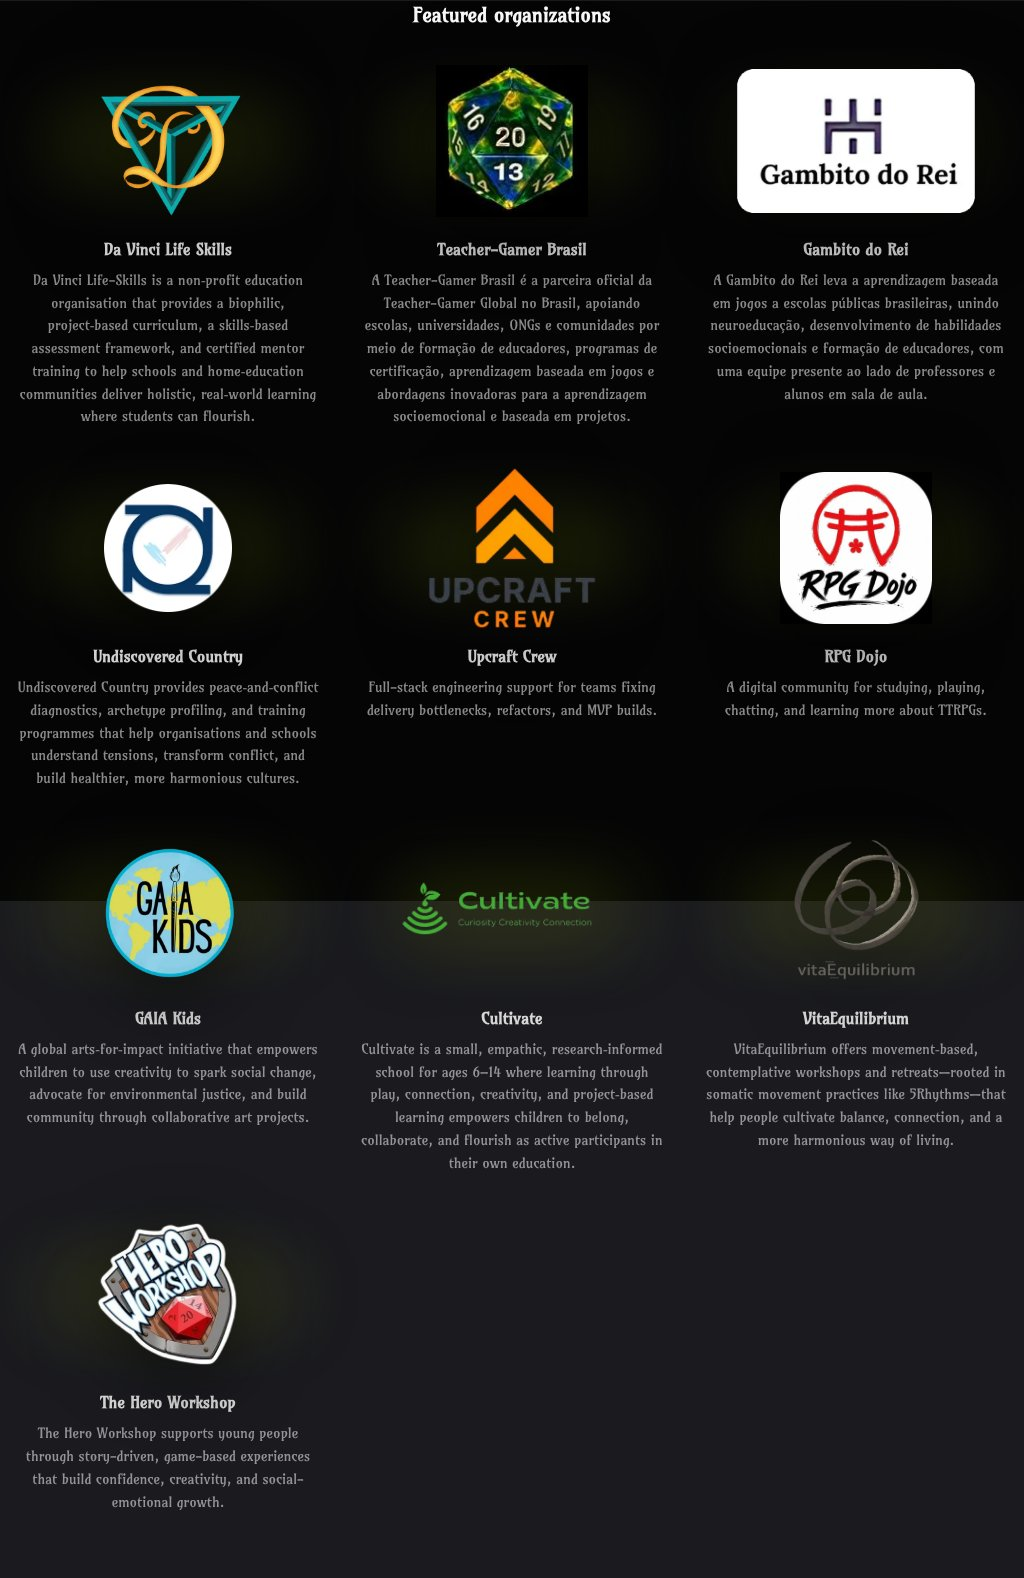
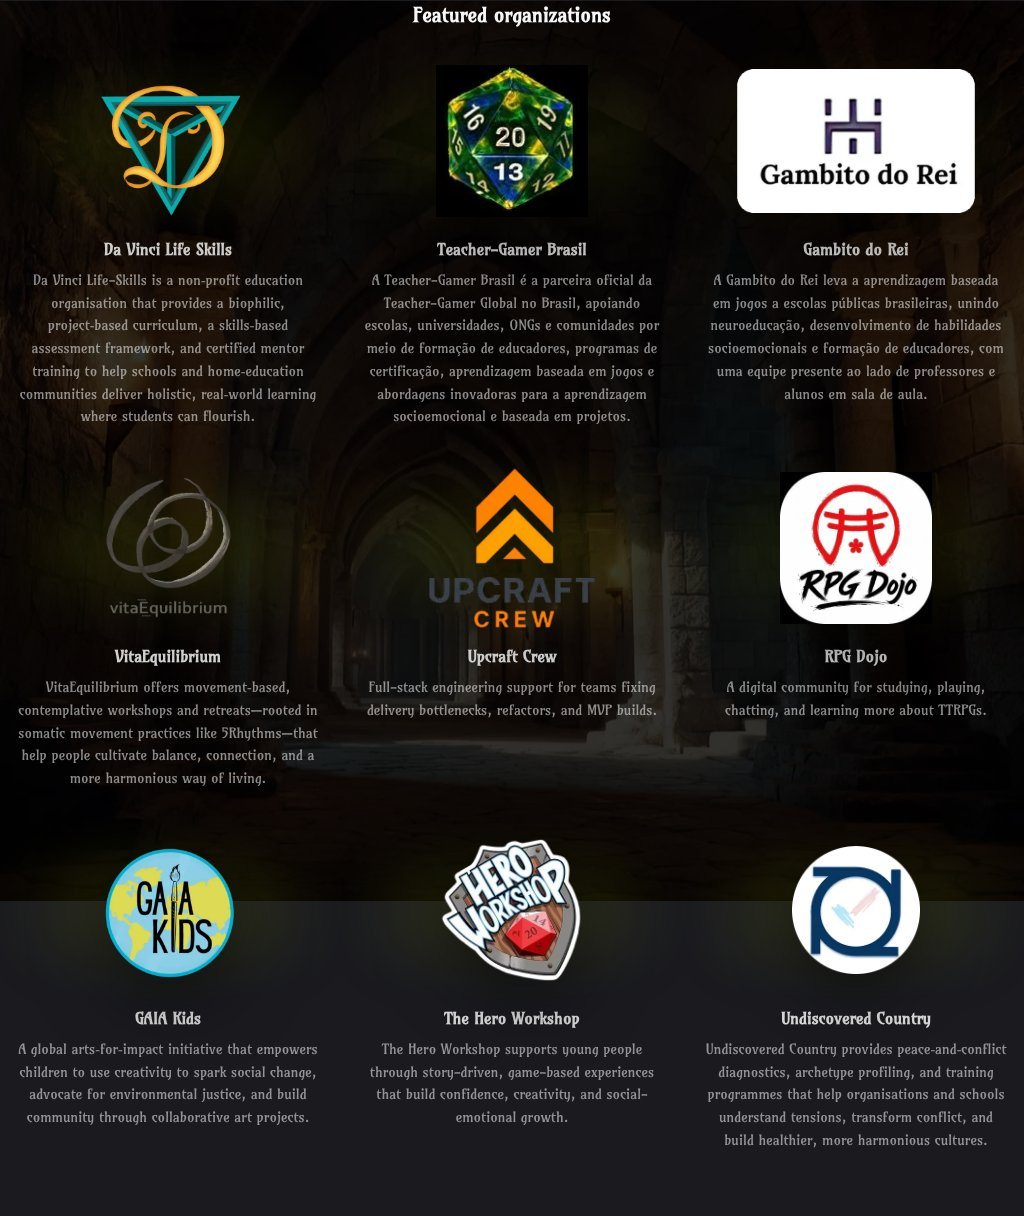
Remove Cultivate and swap Undiscovered Country with VitaEquilibrium
The grid is now a clean 3x3: VitaEquilibrium moves up beside Upcraft
Crew, Undiscovered Country moves to the last slot, and The Hero Workshop
fills the gap left by Cultivate. The after screenshot is regenerated.

Claude-Session: https://claude.ai/code/session_01UaiBi87Hez7aywdimHGd7x

diff --git a/src/data/partners.ts b/src/data/partners.ts
@@ -36,12 +36,12 @@ export const partnerOrganizations: PartnerEntry[] = [
     logoClassName: "scale-90",
   },
   {
-    name: "Undiscovered Country",
+    name: "VitaEquilibrium",
     description:
-      "Undiscovered Country provides peace‑and‑conflict diagnostics, archetype profiling, and training programmes that help organisations and schools understand tensions, transform conflict, and build healthier, more harmonious cultures.",
-    logoSrc: "/partners/undiscovered-country-logo-2.png",
-    logoClassName: "scale-80",
-    website: "https://www.undiscoveredcountry.org.uk/",
+      "VitaEquilibrium offers movement\u{2011}based, contemplative workshops and retreats\u{2014}rooted in somatic movement practices like 5Rhythms\u{2014}that help people cultivate balance, connection, and a more harmonious way of living.",
+    logoSrc: "/partners/vitaequilibrium-logo.png",
+    logoClassName: "scale-95",
+    website: "https://www.vitaequilibrium.com/",
   },
   {
     name: "Upcraft Crew",
@@ -66,27 +66,19 @@ export const partnerOrganizations: PartnerEntry[] = [
     website: "https://gaiakids.net",
   },
   {
-    name: "Cultivate",
-    description:
-      "Cultivate is a small, empathic, research\u{2011}informed school for ages 6\u{2013}14 where learning through play, connection, creativity, and project\u{2011}based learning empowers children to belong, collaborate, and flourish as active participants in their own education.",
-    logoSrc: "/partners/cultivate-logo-bright.png",
-    logoClassName: "scale-90 drop-shadow-[0_0_20px_rgba(120,200,120,0.35)]",
-    website: "https://www.cultivatelearning.org.uk/",
-  },
-  {
-    name: "VitaEquilibrium",
-    description:
-      "VitaEquilibrium offers movement\u{2011}based, contemplative workshops and retreats\u{2014}rooted in somatic movement practices like 5Rhythms\u{2014}that help people cultivate balance, connection, and a more harmonious way of living.",
-    logoSrc: "/partners/vitaequilibrium-logo.png",
-    logoClassName: "scale-95",
-    website: "https://www.vitaequilibrium.com/",
-  },
-  {
     name: "The Hero Workshop",
     description:
       "The Hero Workshop supports young people through story-driven, game-based experiences that build confidence, creativity, and social-emotional growth.",
     logoSrc: "/partners/hero-workshop-logo.png",
     logoClassName: "scale-95",
     website: "https://www.heroworkshop.org/",
+  },
+  {
+    name: "Undiscovered Country",
+    description:
+      "Undiscovered Country provides peace‑and‑conflict diagnostics, archetype profiling, and training programmes that help organisations and schools understand tensions, transform conflict, and build healthier, more harmonious cultures.",
+    logoSrc: "/partners/undiscovered-country-logo-2.png",
+    logoClassName: "scale-80",
+    website: "https://www.undiscoveredcountry.org.uk/",
   },
 ];
